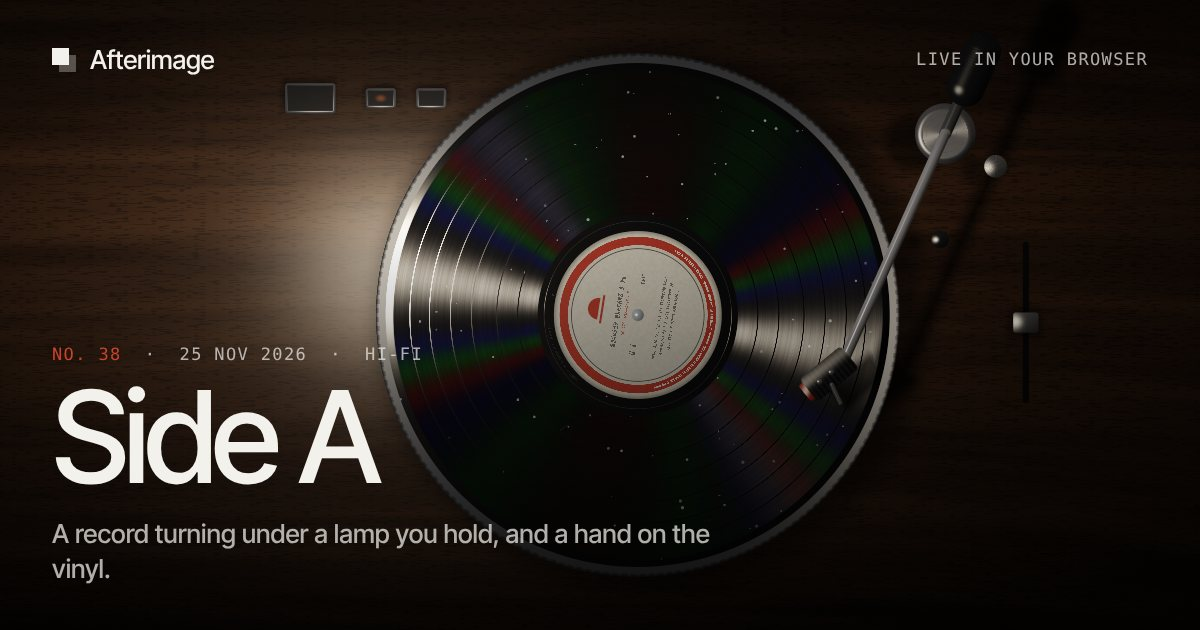
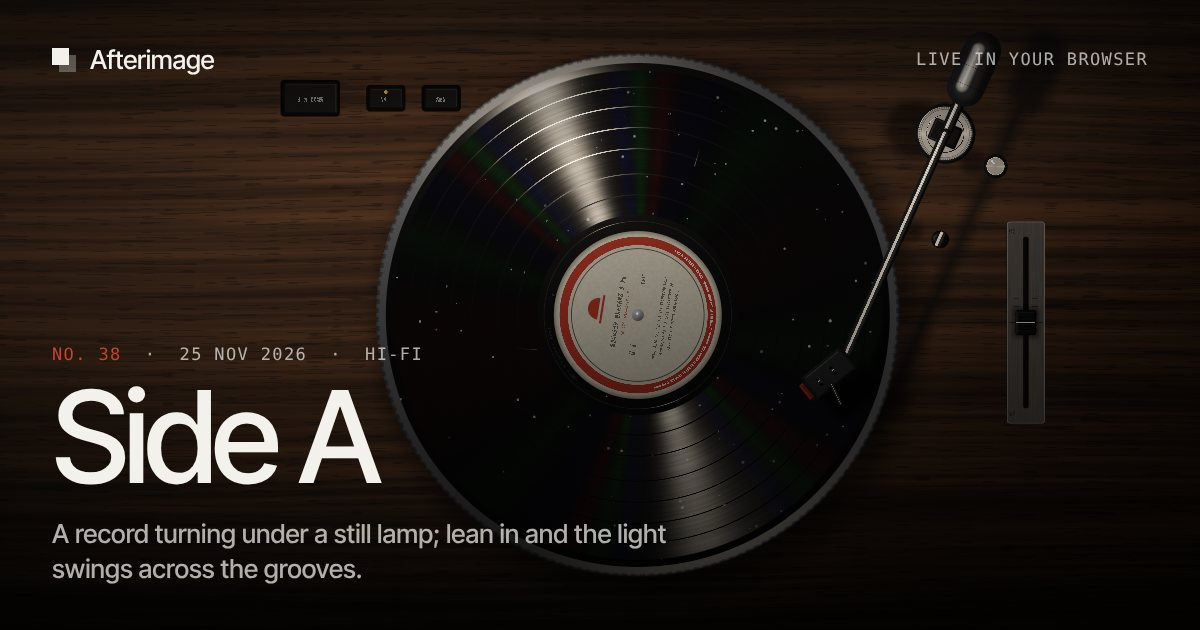
Side A: still lamp, the pointer moves your eye; machined hardware; real walnut
Daniel found the lamp following the mouse odd and the knobs, sliders and
wood cheap. The lamp now stays put and the pointer moves the viewer's eye,
so the bow tie swings as it does when you lean over a record. Metal parts
reflect a room (dark walls, the lamp's shade, a window) instead of a
gradient; keys are chamfered black plastic in recesses with legends; the
pitch fader has a brushed plate, scale and ridged cap; knobs are turned and
knurled. The plinth is straight-grained walnut veneer under satin lacquer.

Claude-Session: https://claude.ai/code/session_01NZcfqGoJgcsBkSb6SakvRS

diff --git a/src/effects/index.ts b/src/effects/index.ts
@@ -1874,28 +1874,28 @@ const ENTRIES: readonly Entry[] = [
     name: "Side A",
     published: "2026-11-25",
     category: "Hi-fi",
-    tagline: "A record turning under a lamp you hold, and a hand on the vinyl.",
+    tagline: "A record turning under a still lamp; lean in and the light swings across the grooves.",
     summary:
-      "A record deck seen from straight above on a walnut plinth, under one warm lamp. The record turns at thirty-three and a third, its grooves throwing the lamp back as a bow tie of light through the spindle, fringed with the faint rainbow a groove makes as a grating. Track gaps, the run-out loop and a scratched matrix number show in the vinyl, dust and fine scratches turn with it and flash as they cross the light, and the cream label carries its print around. The tonearm rests in the groove with its counterweight, headshell and cartridge, swaying a hair with the record's eccentricity and casting a soft shadow. Move and the lamp follows your hand, so the light swings across the grooves; press on the record to hold it, drag to scratch it back and forth, and let go for the motor to bring it back up to speed. Speed sets the turntable's rpm, and Lamp how bright the light.",
+      "A record deck seen from straight above on a walnut veneer plinth, under one warm lamp and a window. The record turns at thirty-three and a third, its grooves throwing the lamp back as a bow tie of light through the spindle, fringed with the faint rainbow a groove makes as a grating. Track gaps, the run-out loop and a scratched matrix number show in the vinyl, dust and fine scratches turn with it and flash as they cross the light, and the cream label carries its print around. The deck is machined: chamfered black keys with their legends and running light, a brushed pitch plate with its scale and ridged fader, a turned pivot housing and anti-skate knob, a chrome arm tube, a steel counterweight, and the headshell and cartridge, all casting soft shadows from the lamp. Move and you move your head over the deck, so the bow tie swings as it does when you lean in to look; press on the record to hold it, drag to scratch it back and forth, and let go for the motor to bring it back up to speed. Speed sets the turntable's rpm, and Lamp how bright the light.",
     explanation: [
       { title: "Light off the grooves", body: "The grooves are tiny concentric ridges, so they only reflect the lamp where the direction halfway between the lamp and your eye is square to them. That happens along the line through the spindle toward the lamp, which is why a record shows a bow tie of light that stays put while the record turns under it." },
       { title: "A rainbow from a grating", body: "Grooves a tenth of a millimetre apart split light by wavelength, like a CD. Either side of the white streak each colour peaks at a slightly different angle, so the light fringes into faint red, green and blue." },
-      { title: "What turns, and what does not", body: "The light is fixed to the lamp, so the turning shows in what the record carries: the label's print, dust that glints as it passes, and fine scratches that flash only when they cross square to the light." },
+      { title: "What turns, and what does not", body: "The light is fixed to the lamp and your eye, so the turning shows in what the record carries: the label's print, dust that glints as it passes, and fine scratches that flash only when they cross square to the light." },
       { title: "A hand on the record", body: "While you press, the record turns exactly as far as your hand goes around the spindle, so you can hold it still or drag it back. Let go and the motor pulls it back up to speed in about half a second." },
     ],
     rationale: {
-      idea: "A record turning under a lamp you hold, where the grooves light up in a bow tie and a press puts your hand on the vinyl.",
-      firstSeconds: "A walnut deck from above with a black record turning, a white bow tie of light across its grooves fringed with faint colour, the label turning, dust glinting, and the lamp drifting slowly so the bow tie swings round.",
-      interaction: "The lamp follows your hand, so moving swings the light across the grooves and shows how a record really catches light; pressing on the record grabs it, and dragging scratches it back and forth until you let go and it spins back up.",
+      idea: "A record turning under a still lamp, where the grooves light up in a bow tie that swings as you lean in, and a press puts your hand on the vinyl.",
+      firstSeconds: "A walnut deck from above with a black record turning, a white bow tie of light across its grooves fringed with faint colour, the label turning, dust glinting, and the light shifting gently as if someone were standing over it.",
+      interaction: "Your hand is your head over the deck: move and the bow tie swings across the grooves exactly as it does when you lean over a real record; pressing on the record grabs it, and dragging scratches it back and forth until you let go and it spins back up.",
       headline: "The lower left: bare walnut plinth beside the platter, lit only softly.",
-      nearest: "Calibre, also a precise machine where the pointer is a lamp. Calibre is a watch movement of gears; here the light is the subject, the groove reflection and its rainbow, and the hand can stop and throw the record.",
-      risks: "A record drawn as a flat black disc would look cheap, so it carries grooves, track gaps, run-out, matrix number, rolled lip, label print, dust and scratches, and the deck has a platter rim with strobe dots, buttons, pitch slider and a full tonearm with shadow. The rainbow could look like a filter, so it is faint and tied to the white streak. All of it is one pass with no textures, capped at 1.25x pixel density.",
+      nearest: "Calibre, also a precise machine under a lamp. Calibre is a watch movement where the pointer is the lamp; here the lamp stays put and the pointer is your viewpoint, the light on the grooves is the subject, and the hand can stop and throw the record.",
+      risks: "A record drawn as a flat black disc would look cheap, so it carries grooves, track gaps, run-out, matrix number, rolled lip, label print, dust and scratches, and the deck hardware is shaded as machined metal and plastic: chamfered keys, a brushed pitch plate, turned and knurled knobs, chrome reflecting the room. The rainbow could look like a filter, so it is faint and tied to the white streak. All of it is one pass with no textures, capped at 1.25x pixel density.",
     },
     technical: {
       insight: "A record's sheen is anisotropic: grooves reflect only where the half vector is perpendicular to the circumferential tangent, so dot(T, H) alone draws the bow tie, and offsetting it per wavelength draws the diffraction.",
       pipeline: [
-        "fragment · one pass: lacquered walnut plinth with grain and pores, keys, pitch slider, turned platter rim with strobe dots, the record (anisotropic groove light with diffraction fringes, glossy smooth bands, dust and scratches turning with it, printed label), and the tonearm parts as capsules and rounded boxes with metal shading and soft shadows from the lamp",
-        "cpu · record angle under motor torque or the hand, the lamp following the pointer or an idle path, and the tonearm solved from the needle's radius",
+        "fragment · one pass: walnut plinth of straight-grained veneer and pores under a satin lacquer reflecting the room, chamfered keys with legends, brushed pitch plate with scale and fader, turned platter rim with strobe dots, the record (anisotropic groove light with diffraction fringes, glossy smooth bands, dust and scratches turning with it, printed label), and the tonearm parts as capsules and rounded boxes, metal shaded by reflecting a room of dark walls, the lamp's shade and a window, turned parts with a concentric-tool-mark streak, and soft shadows from the lamp",
+        "cpu · record angle under motor torque or the hand, the viewer's eye following the pointer or swaying gently, and the tonearm solved from the needle's radius",
       ],
       techniques: [
         "anisotropic reflection",
@@ -1903,9 +1903,10 @@ const ENTRIES: readonly Entry[] = [
         "signed distance parts",
         "projected soft shadows",
         "procedural wood grain",
+        "environment reflections",
       ],
       notes:
-        "The groove term is exp(-dot(T, H)^2 / w) with a narrow core and a broad skirt; the rainbow puts red, green and blue peaks at |dot(T, H)| of 0.105, 0.085 and 0.066, with a second order at twice those. A second, dimmer bow tie comes from a fixed window. The lamp sits 2.4 record radii up, so the streak keeps its width on every screen. The needle radius is 0.74 of the record's, swaying by 0.004 with the angle; the tonearm is 1.15 radii from pivot to stylus and the headshell turns 0.4 radians in toward the spindle. The motor pulls the speed back with a rate of 4.5 per second.",
+        "The groove term is exp(-dot(T, H)^2 / w) with a narrow core and a broad skirt; the rainbow puts red, green and blue peaks at |dot(T, H)| of 0.105, 0.085 and 0.066, with a second order at twice those. A second, dimmer bow tie comes from a fixed window. The lamp sits 2.8 record radii up and to the upper left; the eye is 5 radii up and moves up to 1.8 radii sideways with the pointer, and every half vector uses the true direction to the eye. The needle radius is 0.74 of the record's, swaying by 0.004 with the angle; the tonearm is 1.15 radii from pivot to stylus and the headshell turns 0.4 radians in toward the spindle. The motor pulls the speed back with a rate of 4.5 per second.",
       source: "src/effects/vinyl",
     },
     accent: "#c8442a",

diff --git a/src/effects/vinyl/pipeline.ts b/src/effects/vinyl/pipeline.ts
@@ -11,7 +11,8 @@ export interface VinylSources {
  * speed, clockwise, and a hand pressed on the record takes it over, turning
  * it exactly as far as the hand goes around the spindle, so it can be held,
  * dragged back and thrown. Let go and the motor brings it back up to speed.
- * The lamp follows the pointer, or wanders slowly around the deck when no
+ * The lamp stands still; the pointer moves the viewer's head over the deck,
+ * which swings the light on the grooves, and the head sways a little when no
  * one is there. The tonearm's geometry is solved here from the needle's
  * radius, which sways a little with the record's eccentricity.
  */
@@ -37,7 +38,7 @@ export function createVinyl(setup: EffectSetup, src: VinylSources): EffectInstan
   let held = false
   let wasPressed = false
   let handAngle = 0
-  let lamp: V2 | null = null
+  let gaze: V2 | null = null // the viewer's head offset, in record radii
   let started = false
 
   function render(frame: Frame, tgt: Target, inputs: FrameInputs) {
@@ -80,13 +81,21 @@ export function createVinyl(setup: EffectSetup, src: VinylSources): EffectInstan
     handAngle = a
     if (angle > 1e4 || angle < -1e4) angle %= 2 * Math.PI
 
-    // The lamp follows the hand, or wanders slowly around the deck.
-    const ph = t * 0.21 + 2.0
-    const idle: V2 = [C[0] + Math.cos(ph) * R * 1.0, C[1] + Math.sin(ph) * R * 0.75]
-    const want = live ? hand : idle
-    if (!lamp) lamp = idle
-    const k = 1 - Math.exp(-dt * (live ? 7 : 1.5))
-    lamp = [lamp[0] + (want[0] - lamp[0]) * k, lamp[1] + (want[1] - lamp[1]) * k]
+    // The lamp stands still. Your hand moves your head over the deck, so the
+    // light on the grooves swings the way it does when you lean in to look;
+    // left alone, the head sways a little, as anyone's does.
+    const idle: V2 = [Math.sin(t * 0.23) * 0.5 + Math.sin(t * 0.11 + 1) * 0.25, Math.sin(t * 0.17 + 2) * 0.35]
+    let want = idle
+    if (live) {
+      const tx = (hand[0] - C[0]) / R
+      const ty = (hand[1] - C[1]) / R
+      const m = Math.hypot(tx, ty)
+      const s = m > 1.4 ? 1.4 / m : 1
+      want = [tx * s, ty * s]
+    }
+    if (!gaze) gaze = idle
+    const k = 1 - Math.exp(-dt * (live ? 5 : 1.5))
+    gaze = [gaze[0] + (want[0] - gaze[0]) * k, gaze[1] + (want[1] - gaze[1]) * k]
 
     // The tonearm: the needle sits on a circle around the pivot, where it
     // meets its groove; the groove sways with the record's eccentricity.
@@ -124,10 +133,11 @@ export function createVinyl(setup: EffectSetup, src: VinylSources): EffectInstan
         lampOn: rpm > 0.5 ? 1 : 0,
         _p0: 0,
         _p1: 0,
-        lamp: [lamp[0], lamp[1], R * 2.4, inputs.controls.lamp ?? 1],
+        lamp: [C[0] - R * 0.95, C[1] + R * 1.05, R * 2.8, inputs.controls.lamp ?? 1],
         rec: [C[0], C[1], R, rn],
         arm: [P[0], P[1], J[0], J[1]],
         head: [N[0], N[1], hd[0], hd[1]],
+        eye: [C[0] + gaze[0] * R * 1.3, C[1] + gaze[1] * R * 1.3, R * 5, 0],
       },
     })
     frame.pass(tgt, fx)

diff --git a/README.md b/README.md
@@ -80,7 +80,7 @@ with `strictPort`, so a busy port fails loudly instead of moving; `shots.sh` and
 | 35 | **Ebru** | paper marbling as a list of exact area-preserving moves (drops, stylus strokes, combs) replayed backwards per pixel with a carried Jacobian for antialiased edges, finished moves baked into a texture, tray redrawn only when a move changes; press to drop paint, drag to pull a stylus | drop size, stylus |
 | 36 | **Rack Focus** | gathered bokeh on a perspective night avenue: every window, lamp and car at a real distance drawn as its circle of confusion with blade shape, rim, cat's eye and chromatic fringes, lights found per pixel along their rows in 1/z, still street cached until focus moves, wet road reflections, focus on a critically damped spring toward the depth under the pointer | aperture, exposure |
 | 37 | **Koi** | a garden pond from above: koi with ten-point follow-the-leader spines and a swimming wave, steering from wander, food, a quiet or quick hand, separation and edges; wave-equation ripples from the hand, food and gulps refracting stones, caustics and fish; fresnel sky and canopy reflection, lily pads and drifting ginkgo leaves | light, ripples |
-| 38 | **Side A** | a record deck from above under a lamp you hold: anisotropic groove reflection from dot(T, H) with diffraction fringes per wavelength, dust and scratches that glint as they turn, printed label, tonearm of capsules and rounded boxes with projected soft shadows, walnut plinth; press to hold and scratch the record, motor torque brings it back | rpm, lamp |
+| 38 | **Side A** | a record deck from above under a still lamp, the pointer moving your eye: anisotropic groove reflection from dot(T, H) with diffraction fringes per wavelength, dust and scratches that glint as they turn, printed label, machined keys, pitch fader and tonearm reflecting a room environment with projected soft shadows, straight-grained walnut veneer; press to hold and scratch the record, motor torque brings it back | rpm, lamp |
 
 ## Copy
 
